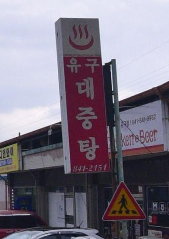
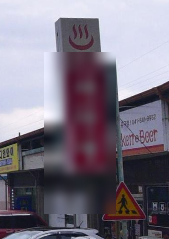
Add files via upload

diff --git a/index.html b/index.html
@@ -72,7 +72,7 @@ p{line-height:1.7;margin:8px 0}
 const stages = [
   {
     title:"MISSION 01 · 파란 간판을 찾아라",
-    intro:"터미널 밖으로 나와 주변을 살펴보세요. 사진 속 파란색 간판을 찾으면 첫 번째 퀴즈에 도전할 수 있어요.",
+    intro:"터미널 밖으로 나와 주변을 살펴보세요. 사진 속 파란색 간판의 모양과 주변 모습을 보고 같은 장소를 직접 찾아보세요. 글자는 일부 가려져 있어요.",
     image:"paris.png",
     question:"PARIS는 어느 나라의 수도일까요?",
     choices:["영국","프랑스","미국","일본"], answer:1,
@@ -80,7 +80,7 @@ const stages = [
   },
   {
     title:"MISSION 02 · 나무 이름을 찾아라",
-    intro:"길을 따라가며 사진 속 가게를 찾아보세요. 간판을 찾았다면 이름을 확인해 보세요.",
+    intro:"길을 따라가며 사진 속 가게를 찾아보세요. 사진 속 가게를 직접 찾아 간판의 이름을 확인해 보세요. 사진에서는 정답 글자를 가려두었어요.",
     image:"garosu.png",
     question:"이 가게의 이름은 무엇일까요?",
     choices:["소나무","가로수","은행나무","느티나무"], answer:1,
@@ -88,7 +88,7 @@ const stages = [
   },
   {
     title:"MISSION 03 · 삼거리의 ♨를 찾아라",
-    intro:"삼거리에 도착했나요? 주변의 높은 간판들을 천천히 살펴보고 ♨ 표시가 있는 간판을 찾아보세요.",
+    intro:"삼거리에 도착했나요? 주변의 높은 간판들을 천천히 살펴보고 ♨ 표시가 있는 간판을 직접 찾아보세요. 정답은 현장 간판에서 확인해야 해요.",
     image:"bath.png",
     question:"♨ 표시 아래에 적혀 있는 장소의 이름은 무엇일까요?",
     choices:["유구대중탕","유구수영장","유구찜질방","유구온천"], answer:0,
@@ -96,7 +96,7 @@ const stages = [
   },
   {
     title:"MISSION 04 · 빨간 십자가를 찾아라",
-    intro:"길을 따라가며 빨간 십자가가 있는 높은 간판을 찾아보세요.",
+    intro:"길을 따라가며 빨간 십자가가 있는 높은 간판을 직접 찾아보세요. 사진에서는 병원 이름을 가려두었어요.",
     image:"hospital.png",
     question:"간판에 적힌 도시의 이름은 무엇일까요?",
     choices:["공주","대전","서울","세종"], answer:2,
@@ -104,7 +104,7 @@ const stages = [
   },
   {
     title:"FINAL CLUE · 파란 안내판",
-    intro:"이번에는 먼저 사진을 보지 말고 길 주변의 파란색 안내판을 찾아보세요. 찾기 어렵다면 아래 사진을 힌트로 확인하세요.",
+    intro:"이번에는 먼저 사진을 보지 말고 길 주변의 파란색 안내판을 찾아보세요. 찾기 어렵다면 아래 사진을 힌트로 확인하세요. 거리 숫자는 사진에서 가려져 있으니 현장에서 직접 찾아야 합니다.",
     image:"sign80.png",
     input:true, answerText:"80",
     question:"유구도서관까지 몇 m 남았을까요?",
@@ -112,7 +112,7 @@ const stages = [
   },
   {
     title:"FINAL MISSION · 도서관을 찾아라!",
-    intro:"주변에서 사진 속 돌기둥을 찾아보세요. 여기까지 왔다면 정말 거의 다 왔습니다!",
+    intro:"주변에서 사진 속 돌기둥을 직접 찾아보세요. 돌기둥의 글자는 사진에서 가려져 있으니 현장에서 확인해야 합니다!",
     image:"library_gate.png",
     question:"돌기둥에 적힌 장소의 이름은 무엇일까요?",
     choices:["유구중학교","유구도서관","유구문화관","유구자료관"], answer:1,

diff --git a/README.md b/README.md
@@ -1,16 +1,7 @@
-# 도서관을 찾아라! — GitHub 업로드용
+# 도서관을 찾아라! — 정답 가림 버전
 
-이 폴더 안의 파일을 전부 한꺼번에 GitHub 저장소 최상위에 업로드하세요.
+사진 속 퀴즈 정답이 바로 보이지 않도록 간판 글자와 숫자를 가린 버전입니다.
+참가자가 실제 현장에 가서 간판과 안내판을 직접 확인해야 정답을 알 수 있습니다.
 
-필수 구조:
-- index.html
-- paris.png
-- garosu.png
-- bath.png
-- hospital.png
-- sign80.png
-- library_sign.png
-- library_gate.png
-- README.md
-
-폴더를 만들 필요가 없습니다.
+GitHub에는 이 폴더 안의 파일을 전부 저장소 최상위에 업로드하세요.
+폴더를 따로 만들 필요가 없습니다.
